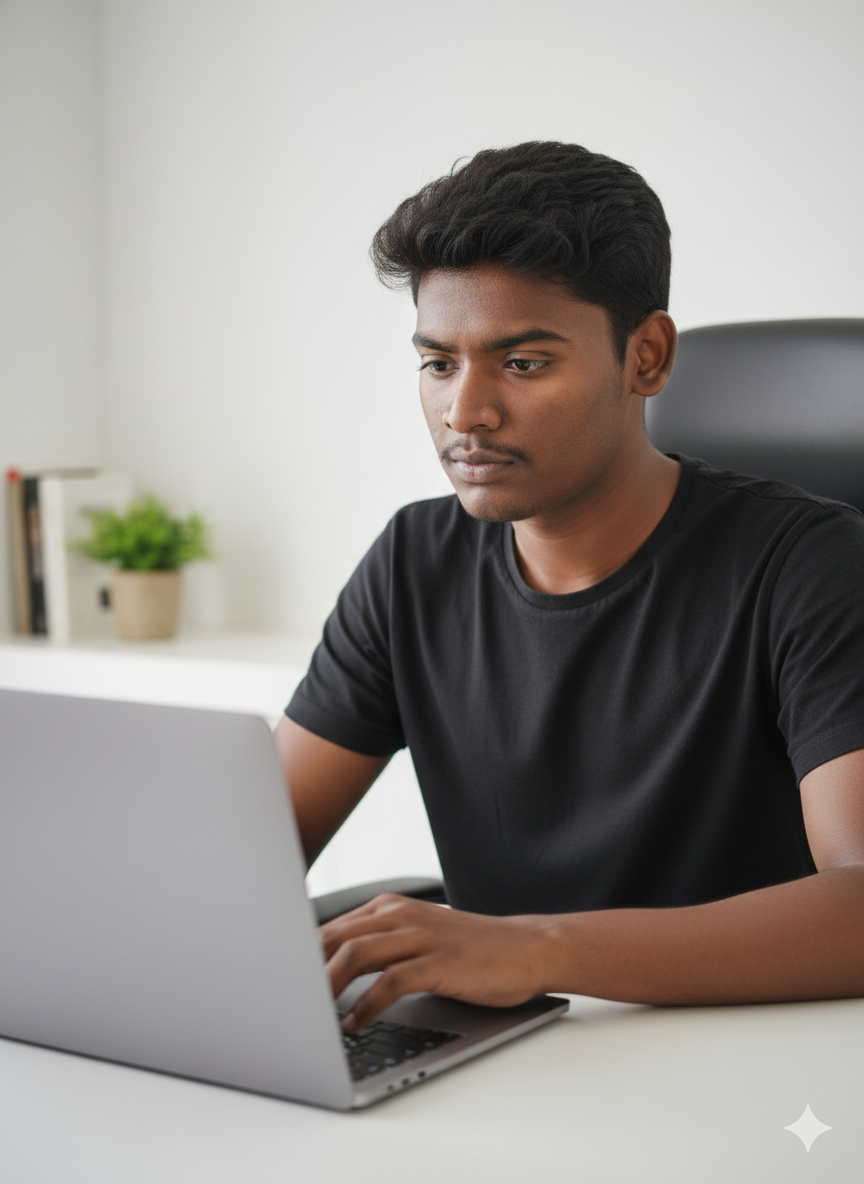
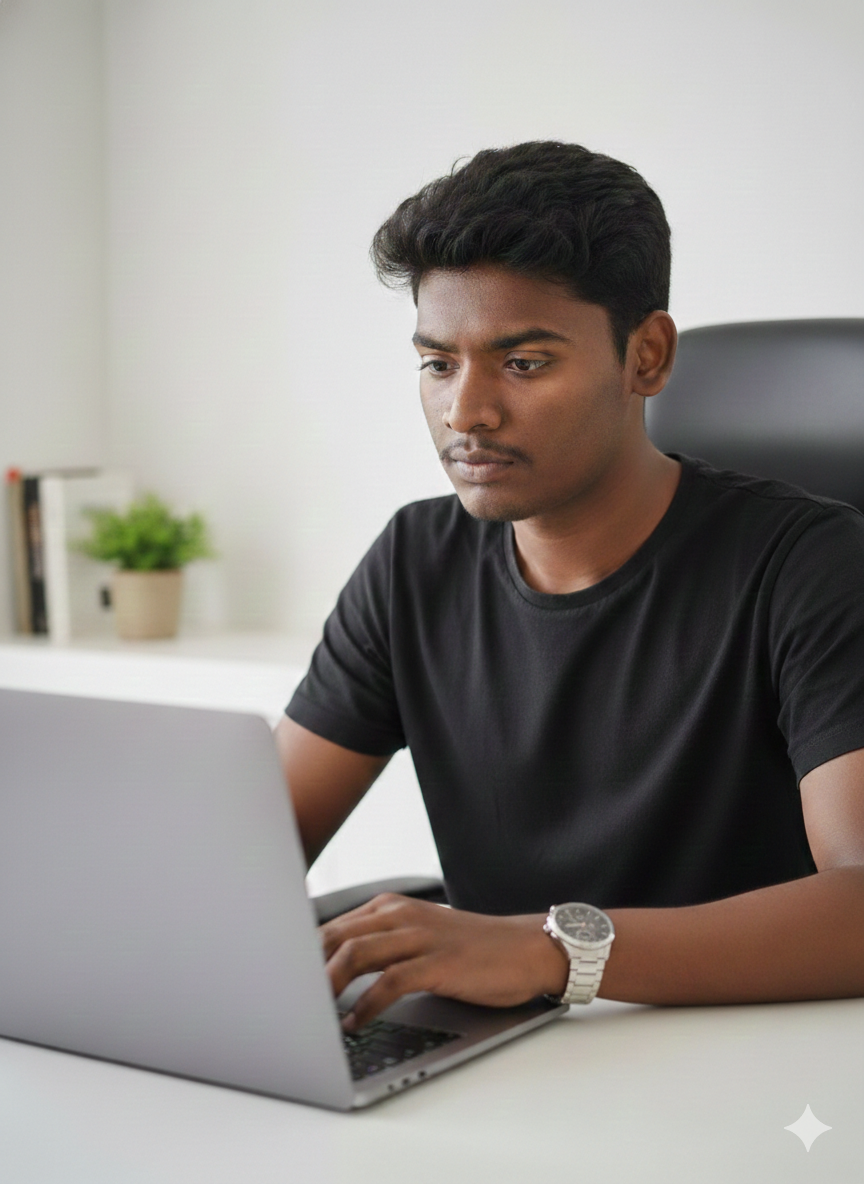
profile pic updated.

Changed region(s): [[0.625, 0.75, 0.7188, 0.875], [0.4375, 0.2188, 0.4688, 0.25]]

diff --git a/flutter_service_worker.js b/flutter_service_worker.js
@@ -32,7 +32,7 @@ const RESOURCES = {".idea/misc.xml": "a4b7aad4eb88e478b3ebc4535e15b657",
 "assets/assets/blog/Day%25207%2520-%2520ListView.png": "b54ed652c4cce4e40eca3db650216783",
 "assets/assets/blog/Day%25208%2520-%2520GridView.png": "a7562c6be3acf01057d1c4257a97fd2c",
 "assets/assets/blog/Day%25209%2520-%2520Expanded.png": "de4eed66966a414b26685fc4e1e7fbfc",
-"assets/assets/images/profile.png": "24ff1823e02b1935ee3dcfb2acddb55d",
+"assets/assets/images/profile.png": "aec3ca9071d70a60249c7f970eaa7f12",
 "assets/assets/images/profile1.png": "e5f60b5f7153b0798f857cf19e1dfae8",
 "assets/assets/portfolio.json": "f4895367ffd54138afc7cbbd2ee54ded",
 "assets/assets/project_images/NihonGo(1).jpg": "c2d78e23bbbf0cc632bb93cdbd9e45e4",
@@ -72,7 +72,7 @@ const RESOURCES = {".idea/misc.xml": "a4b7aad4eb88e478b3ebc4535e15b657",
 "canvaskit/skwasm_heavy.wasm": "8034ad26ba2485dab2fd49bdd786837b",
 "favicon.png": "5398ee3006cc8533efae5f3dd156c3fa",
 "flutter.js": "888483df48293866f9f41d3d9274a779",
-"flutter_bootstrap.js": "15891f7d32f913c4d428bfd80b5ddca6",
+"flutter_bootstrap.js": "f6f30c32909cd69e5043f2a30fbe4ba2",
 "icons/Icon-192.png": "ac9a721a12bbc803b44f645561ecb1e1",
 "icons/Icon-512.png": "96e752610906ba2a93c65f8abe1645f1",
 "icons/Icon-maskable-192.png": "c457ef57daa1d16f64b27b786ec2ea3c",

diff --git a/flutter_bootstrap.js b/flutter_bootstrap.js
@@ -38,6 +38,6 @@ _flutter.buildConfig = {"engineRevision":"ddf47dd3ff96dbde6d9c614db0d7f019d7c7a2
 
 _flutter.loader.load({
   serviceWorkerSettings: {
-    serviceWorkerVersion: "1299126893"
+    serviceWorkerVersion: "3249175876"
   }
 });
